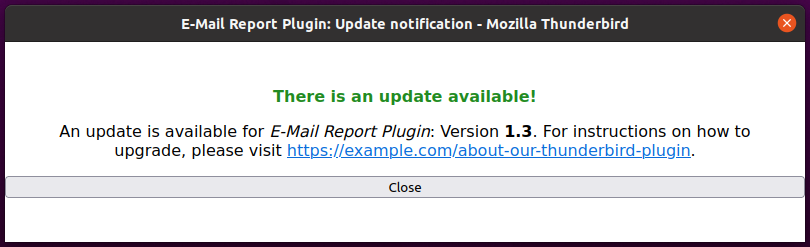
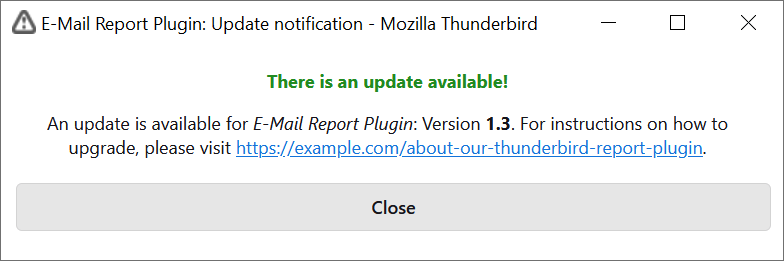
Respect selected Thunderbird theme
and fix various layout issues

diff --git a/src/options/options.html b/src/options/options.html
@@ -3,13 +3,14 @@
 <html>
   <head>
     <meta charset="utf-8"/>
-    <link rel="stylesheet" href="/styles.css" type="text/css"></style>
+    <link rel="stylesheet" href="chrome://global/skin/in-content/common.css" type="text/css">
+    <link rel="stylesheet" href="/styles.css" type="text/css">
   </head>
 
   <body class="options">
     <form>
       <div>
-        <label>__MSG_optionsActionLabel__&nbsp;</label>
+        <label for="report_action">__MSG_optionsActionLabel__&nbsp;</label>
         <select id="report_action">
           <option value="junk">__MSG_optionsActionJunk__</option>
           <option value="trash">__MSG_optionsActionTrash__</option>
@@ -18,7 +19,7 @@
       </div>
 
       <div class="update hide">
-        <label>__MSG_optionsUpdateLabel__&nbsp;</label>
+        <label for="update_check">__MSG_optionsUpdateLabel__&nbsp;</label>
         <select id="update_check">
           <option value="startup">__MSG_optionsUpdateCheckStartup__</option>
           <option value="never">__MSG_optionsUpdateCheckNever__</option>
@@ -32,12 +33,12 @@
       </div>
 
       <div class="advanced hide">
-        <label class="update">__MSG_optionsUpdateURL__&nbsp;</label>
-        <input type="url" class="update" id="update_url" pattern="http(s?)://.*" />
+        <label for="update_url" class="update"><strong>__MSG_optionsUpdateURL__</strong></label>
+        <input class="update large" type="url" id="update_url" pattern="http(s?)://.*" />
       </div>
 
       <div class="advanced hide">
-        <label>__MSG_optionsPhishingTransportLabel__&nbsp;</label>
+        <label for="phishing_transport">__MSG_optionsPhishingTransportLabel__&nbsp;</label>
         <select id="phishing_transport">
           <option value="http">HTTP(S)</option>
           <option value="smtp">SMTP</option>
@@ -46,7 +47,7 @@
       </div>
 
       <div class="advanced hide">
-        <label>__MSG_optionsSimulationTransportLabel__&nbsp;</label>
+        <label for="simulation_transport">__MSG_optionsSimulationTransportLabel__&nbsp;</label>
         <select id="simulation_transport">
           <option value="http">HTTP(S)</option>
           <option value="smtp">SMTP</option>
@@ -55,12 +56,12 @@
       </div>
 
       <div class="advanced hide">
-        <label><strong>Lucy Client-ID</strong></label>
+        <label for="lucy_client_id"><strong>Lucy Client-ID</strong></label>
         <input class="large" type="number" id="lucy_client_id" min="1" max="99" placeholder="optional" />
       </div>
     
       <div class="advanced hide">
-        <label class="http"><strong>HTTP(S):</strong> __MSG_optionsLucyServerLabel__</label>
+        <label for="lucy_server" class="http"><strong>HTTP(S):</strong> __MSG_optionsLucyServerLabel__</label>
         <div class="http">
           <code>https://</code>
           <input type="text" id="lucy_server" placeholder="example.com" required />
@@ -69,10 +70,10 @@
       </div>
 
       <div class="advanced hide">
-        <label class="smtp"><strong>SMTP:</strong> __MSG_optionsSMTPRecipientLabel__</label>
+        <label for="smtp_to" class="smtp"><strong>SMTP:</strong> __MSG_optionsSMTPRecipientLabel__</label>
         <input class="large smtp" type="email" id="smtp_to" placeholder="reports@example.com" required />
         <input class="smtp" type="checkbox" id="smtp_use_expressive_subject">
-        <label class="smtp">__MSG_optionsSMTPExpressiveSubject__</label>
+        <label for="smtp_use_expressive_subject" class="smtp">__MSG_optionsSMTPExpressiveSubject__</label>
       </div>
   
       <button type="button" class="advanced hide" id="reset">__MSG_optionsReset__</button>

diff --git a/src/styles.css b/src/styles.css
@@ -1,21 +1,32 @@
 .hide {display: none !important}
 .success {color: forestgreen; font-weight: bold; margin: 1em}
 .error {color: crimson; font-weight: bold; margin: 1em}
-body.report {min-width: 30rem}  /* same popup size for all views given a regular font size */
-body.options {min-height: 10rem}  /* vertical space for select dropdowns */
+* {box-sizing: border-box}
+html {background: var(--background-color-box) !important}
+body.report {
+    margin: .5rem 1rem .5rem .5rem;
+    min-width: 30rem /* same popup size for all views given a regular font size */
+}
+body.options {
+    min-height: 10rem; /* vertical space for select dropdowns */
+    margin-right: 1rem
+}
+body.options input, body.options button {
+    margin-left: 0 /* Reverse some TB theme styles to left-align the elements properly */
+}
 form {border: none}
 form input {margin-bottom: .5em}
-form input.large {box-sizing: border-box; width: 100%}
+form input.large {width: 100%}
 form > div, button + button {margin-top: .5em}
 form.query p {white-space: pre}
 form input[type="checkbox"] {margin-left: 0}
 input[type="checkbox"] + label {position: relative; top: -2px}
 button {width: 100%; text-align: center}
 button.inline {width: auto}
-body.dialog {display: grid; align-content: center; justify-content: center; width: 100vw; height: 100vh; margin: 0}
+body.dialog {display: grid; align-content: center; justify-content: center; width: 100vw; height: 100vh; margin: 0; padding: .5rem 1rem .5rem .5rem}
 body.dialog p {margin-block-start: 0; text-align: center; padding: 0 1em}
 div.report {display: grid; grid-template-columns: max-content max-content; justify-content: center; align-items: center; column-gap: 1em}
-#spinner {border: 0.4rem solid lightgrey; border-top: 0.4rem solid dimgrey; border-radius: 50%; width: 0.8rem; height: 0.8rem; animation: spin 2s linear infinite}
+#spinner {border: 0.4rem solid lightgrey; border-top: 0.4rem solid dimgrey; border-radius: 50%; width: 1rem; height: 1rem; animation: spin 2s linear infinite}
 @keyframes spin {
     0% { transform: rotate(0deg); }
     100% { transform: rotate(360deg); }

diff --git a/src/report/report.html b/src/report/report.html
@@ -3,7 +3,8 @@
 <html>
   <head>
     <meta charset="utf-8"/>
-    <link rel="stylesheet" href="/styles.css" type="text/css"></style>
+    <link rel="stylesheet" href="chrome://global/skin/in-content/common.css" type="text/css">
+    <link rel="stylesheet" href="/styles.css" type="text/css">
   </head>
   <body class="report">
     <form class="query" autocomplete="off">
@@ -12,20 +13,20 @@
       <button type="submit">__MSG_reportSubmit__</button>
     </form>
     <div class="report pending hide">
-      <div id="spinner"></div>
-      <span>__MSG_reportWait__</span>
+      <h3 id="spinner"></h3>
+      <h3>__MSG_reportWait__</h3>
     </div>
     <div class="report success hide">
-      <span>&#10004;</span>
-      <span>__MSG_reportSuccess__</span>
+      <h3>&#10004;</h3>
+      <h3>__MSG_reportSuccess__</h3>
     </div>
     <div class="report error hide">
-      <span>&#10006;</span>
-      <span>__MSG_reportError__</span>
+      <h3>&#10006;</h3>
+      <h3>__MSG_reportError__</h3>
     </div>
-    <div class="forbidden hide">
-      <span>&#10006;</span>
-      <span>__MSG_reportForbidden__</span>
+    <div class="report forbidden hide">
+      <h3>&#10006;</h3>
+      <h3>__MSG_reportForbidden__</h3>
     </div>
 
     <script src="/vendor/i18n.js"></script>

diff --git a/src/update.js b/src/update.js
@@ -63,7 +63,7 @@ async function showNotificationView(initialState, url=null, version=null) {
   notificationWindow = await browser.windows.create({
     url: `/update/update_notification.html?state=${encodeURIComponent(initialState)}&url=${encodeURIComponent(url)}&version=${encodeURIComponent(version)}`,
     type: "popup",
-    titlePreface: `${browser.runtime.getManifest().name}: ${browser.i18n.getMessage("updateNotificationTitlePreface")}`,
+    titlePreface: `${browser.runtime.getManifest().name}: ${browser.i18n.getMessage("updateNotificationTitlePreface")} - `,
     height: 200,
     width: 800
   });

diff --git a/src/simulation/simulation_ack.html b/src/simulation/simulation_ack.html
@@ -3,7 +3,8 @@
 <html>
   <head>
     <meta charset="utf-8"/>
-    <link rel="stylesheet" href="/styles.css" type="text/css"></style>
+    <link rel="stylesheet" href="chrome://global/skin/in-content/common.css" type="text/css">
+    <link rel="stylesheet" href="/styles.css" type="text/css">
   </head>
   <body class="dialog">
     <p class="success">__MSG_simulationAckSuccessHeader__</p>

diff --git a/src/update/update_notification.html b/src/update/update_notification.html
@@ -3,7 +3,8 @@
 <html>
   <head>
     <meta charset="utf-8"/>
-    <link rel="stylesheet" href="/styles.css" type="text/css"></style>
+    <link rel="stylesheet" href="chrome://global/skin/in-content/common.css" type="text/css">
+    <link rel="stylesheet" href="/styles.css" type="text/css">
   </head>
   <body class="dialog">
     <div class="up2date hide">

diff --git a/Readme.md b/Readme.md
@@ -7,6 +7,7 @@ Mozilla Thunderbird plugin for reporting phishing or otherwise malicious E-Mails
 * User-provided optional comment for each report
 * Configurable after-report action: move to junk/move to bin/keep mail
 * Localization in English and German
+* Respects selected UI theme
 * Automatic update notifications
 * Quickly adjustable organization-specific deployment settings
 * Basic telemetry to report current plugin and MUA versions with each request
@@ -137,7 +138,7 @@ This plugin has a built-in mechanism to detect whether an updated version is ava
 
 The received update JSON document should have the following structure:
 ```
-{"version": "1.3", "url": "https://example.com/about-our-thunderbird-plugin"}
+{"version": "1.3", "url": "https://example.com/about-our-thunderbird-report-plugin"}
 ```
 
 **Notice**: This is just a notification mechanism to inform users about an updated version in case this plugin isn't distributed via the official Mozilla Add-On repository. Users still have to download and install the new plugin manually - the URL returned from the update server is just meant to instruct them on how to perform the update.
